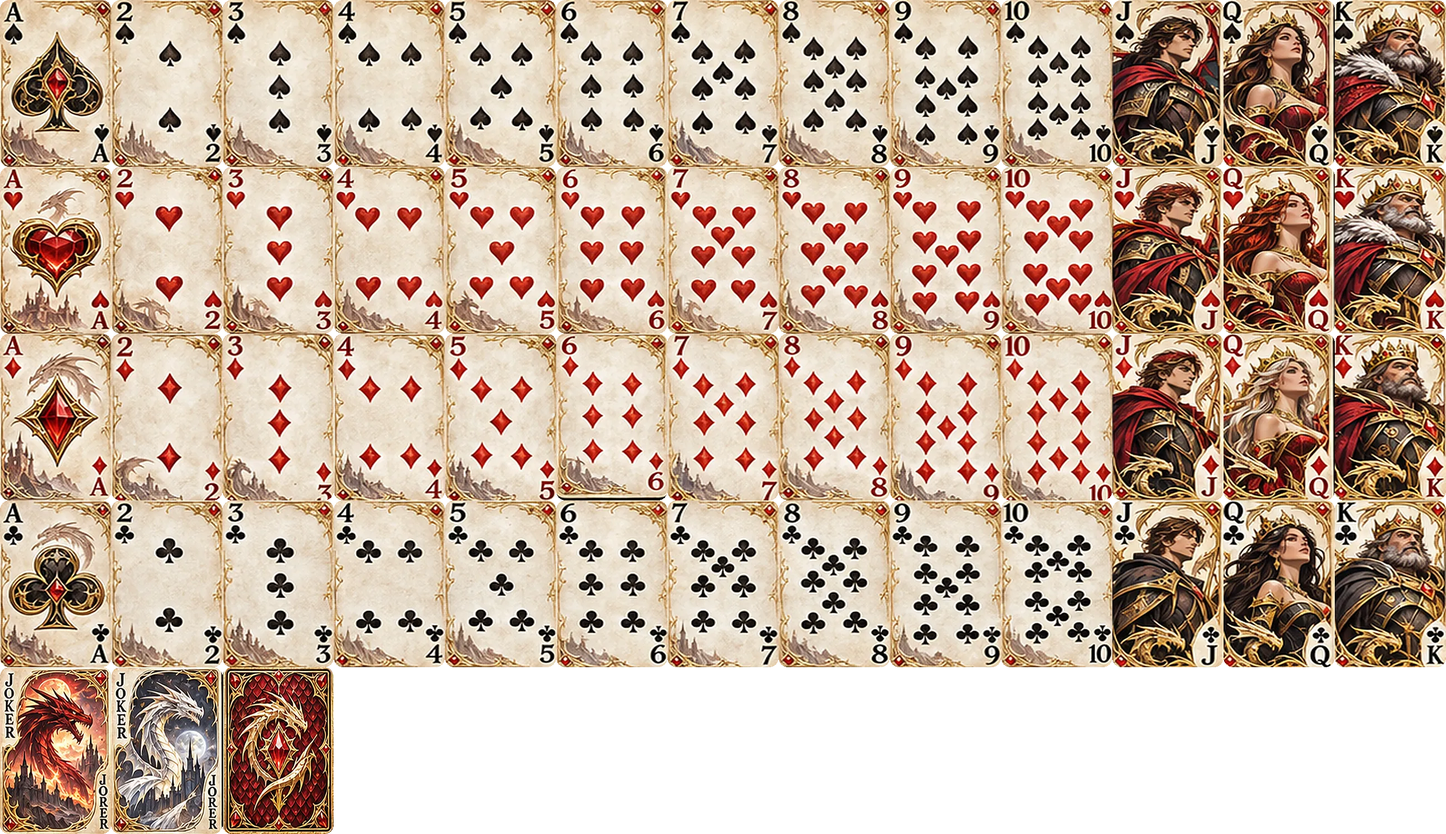
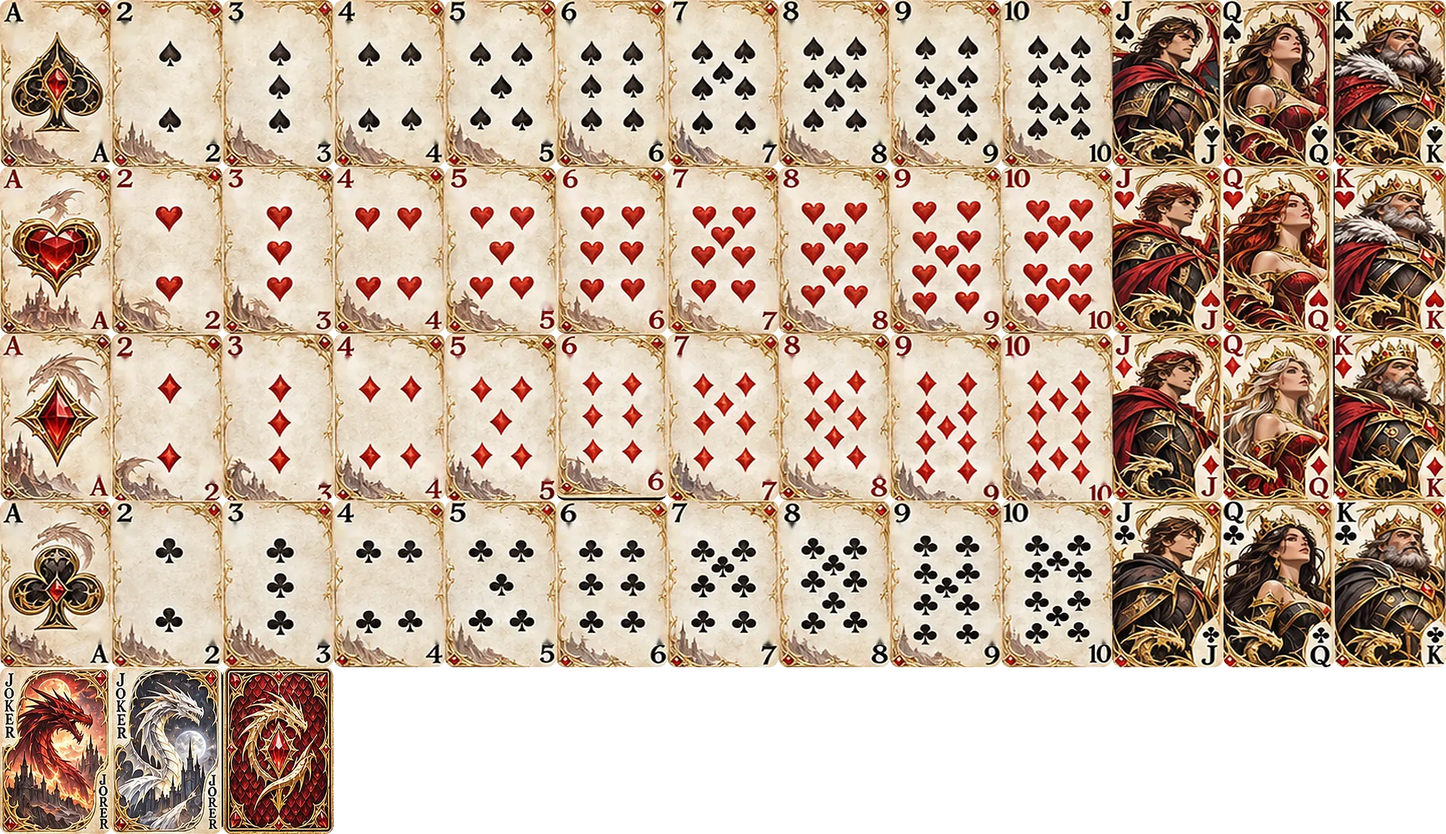
Card designs: remove the small corner suit on A-10
Claude-Session: https://claude.ai/code/session_0152ctjGmspsyMwyXD4bKWjs

diff --git a/sw.js b/sw.js
@@ -1,6 +1,6 @@
 // Super Tock offline cache: the app, marbles, boards, fonts and the Firebase scripts are kept on the phone,
 // so computer games work with no signal. The page itself is always fetched fresh when there's a connection.
-const V = 'st-20261125234507';
+const V = 'st-20261125235400';
 const CORE = ['./', './index.html', './manifest.webmanifest', './apple-touch-icon.png', './icon-192.png', './icon-512.png', './favicon-32.png', './boards/amethyst-t.jpg', './boards/amethyst.jpg', './boards/billiards-t.jpg', './boards/billiards.jpg', './boards/blackmarble-t.jpg', './boards/blackmarble.jpg', './boards/dragon-t.jpg', './boards/dragon.jpg', './boards/frost-t.jpg', './boards/frost.jpg', './boards/galaxy-t.jpg', './boards/galaxy.jpg', './boards/gold-t.jpg', './boards/gold.jpg', './boards/lava-t.jpg', './boards/lava.jpg', './boards/pirate-t.jpg', './boards/pirate.jpg', './boards/poker-t.jpg', './boards/poker.jpg', './boards/roman-t.jpg', './boards/roman.jpg', './boards/roulette-t.jpg', './boards/roulette.jpg', './boards/ruins-t.jpg', './boards/ruins.jpg', './boards/whitemarble-t.jpg', './boards/whitemarble.jpg', './boards/wood-t.jpg', './boards/wood.jpg', './cards/dragon.webp', './cards/dragon_back.webp', './cards/emerald.webp', './cards/emerald_back.webp', './cards/frozen.webp', './cards/frozen_back.webp', './cards/galaxy.webp', './cards/galaxy_back.webp', './cards/ivory.webp', './cards/ivory_back.webp', './cards/japanese.webp', './cards/japanese_back.webp', './cards/obsidian.webp', './cards/obsidian_back.webp', './cards/roulette.webp', './cards/roulette_back.webp', './cards/royal.webp', './cards/royal_back.webp', './cards/volcanic.webp', './cards/volcanic_back.webp', './marbles/aurora.webp', './marbles/black-diamond.webp', './marbles/cosmic-nebula.webp', './marbles/dark-aurora.webp', './marbles/diamond.webp', './marbles/dragon-scale.webp', './marbles/emerald.webp', './marbles/fire-ice.webp', './marbles/frost-crystal.webp', './marbles/galaxy.webp', './marbles/golden-dragon.webp', './marbles/golden-ember.webp', './marbles/inferno.webp', './marbles/obsidian-gold.webp', './marbles/prism-opal.webp', './marbles/prismatic.webp', './marbles/royal-amethyst.webp', './marbles/steampunk.webp', './marbles/storm-cloud.webp', './marbles/storm-lightning.webp', './marbles/stormborn.webp', './marbles/titanium.webp', './marbles/toxic-lime.webp', './marbles/turquoise.webp', './marbles/violet-magic.webp'];
 self.addEventListener('install', e => { e.waitUntil(caches.open(V).then(c => Promise.all(CORE.map(u => c.add(u).catch(() => {})))).then(() => self.skipWaiting())); });
 self.addEventListener('activate', e => { e.waitUntil(caches.keys().then(ks => Promise.all(ks.filter(k => k !== V).map(k => caches.delete(k)))).then(() => self.clients.claim())); });

diff --git a/index.html b/index.html
@@ -927,7 +927,7 @@ input.locked{opacity:.85;cursor:default}
 <script src="https://www.gstatic.com/firebasejs/10.12.2/firebase-app-compat.js"></script>
 <script src="https://www.gstatic.com/firebasejs/10.12.2/firebase-database-compat.js"></script>
 <script src="https://www.gstatic.com/firebasejs/10.12.2/firebase-auth-compat.js"></script>
-<script>window.SUPER_TOCK_FIREBASE = {"apiKey":"AIzaSyCN0eAzW7qH4pUAIQc6UZVzO-Is4Xve2wc","authDomain":"super-tock-7b8e2.firebaseapp.com","databaseURL":"https://super-tock-7b8e2-default-rtdb.firebaseio.com","projectId":"super-tock-7b8e2","storageBucket":"super-tock-7b8e2.firebasestorage.app","messagingSenderId":"70900079089","appId":"1:70900079089:web:5946d4b1a71152edb80c50","measurementId":"G-9B3N30TTK7"}; window.SUPER_TOCK_BOARDS = true; window.SUPER_TOCK_BUILD = '20261125234507';</script>
+<script>window.SUPER_TOCK_FIREBASE = {"apiKey":"AIzaSyCN0eAzW7qH4pUAIQc6UZVzO-Is4Xve2wc","authDomain":"super-tock-7b8e2.firebaseapp.com","databaseURL":"https://super-tock-7b8e2-default-rtdb.firebaseio.com","projectId":"super-tock-7b8e2","storageBucket":"super-tock-7b8e2.firebasestorage.app","messagingSenderId":"70900079089","appId":"1:70900079089:web:5946d4b1a71152edb80c50","measurementId":"G-9B3N30TTK7"}; window.SUPER_TOCK_BOARDS = true; window.SUPER_TOCK_BUILD = '20261125235400';</script>
 <div id="app"></div>
 <script>
 // ===== Super Tock engine (pure game logic, no DOM) =====
